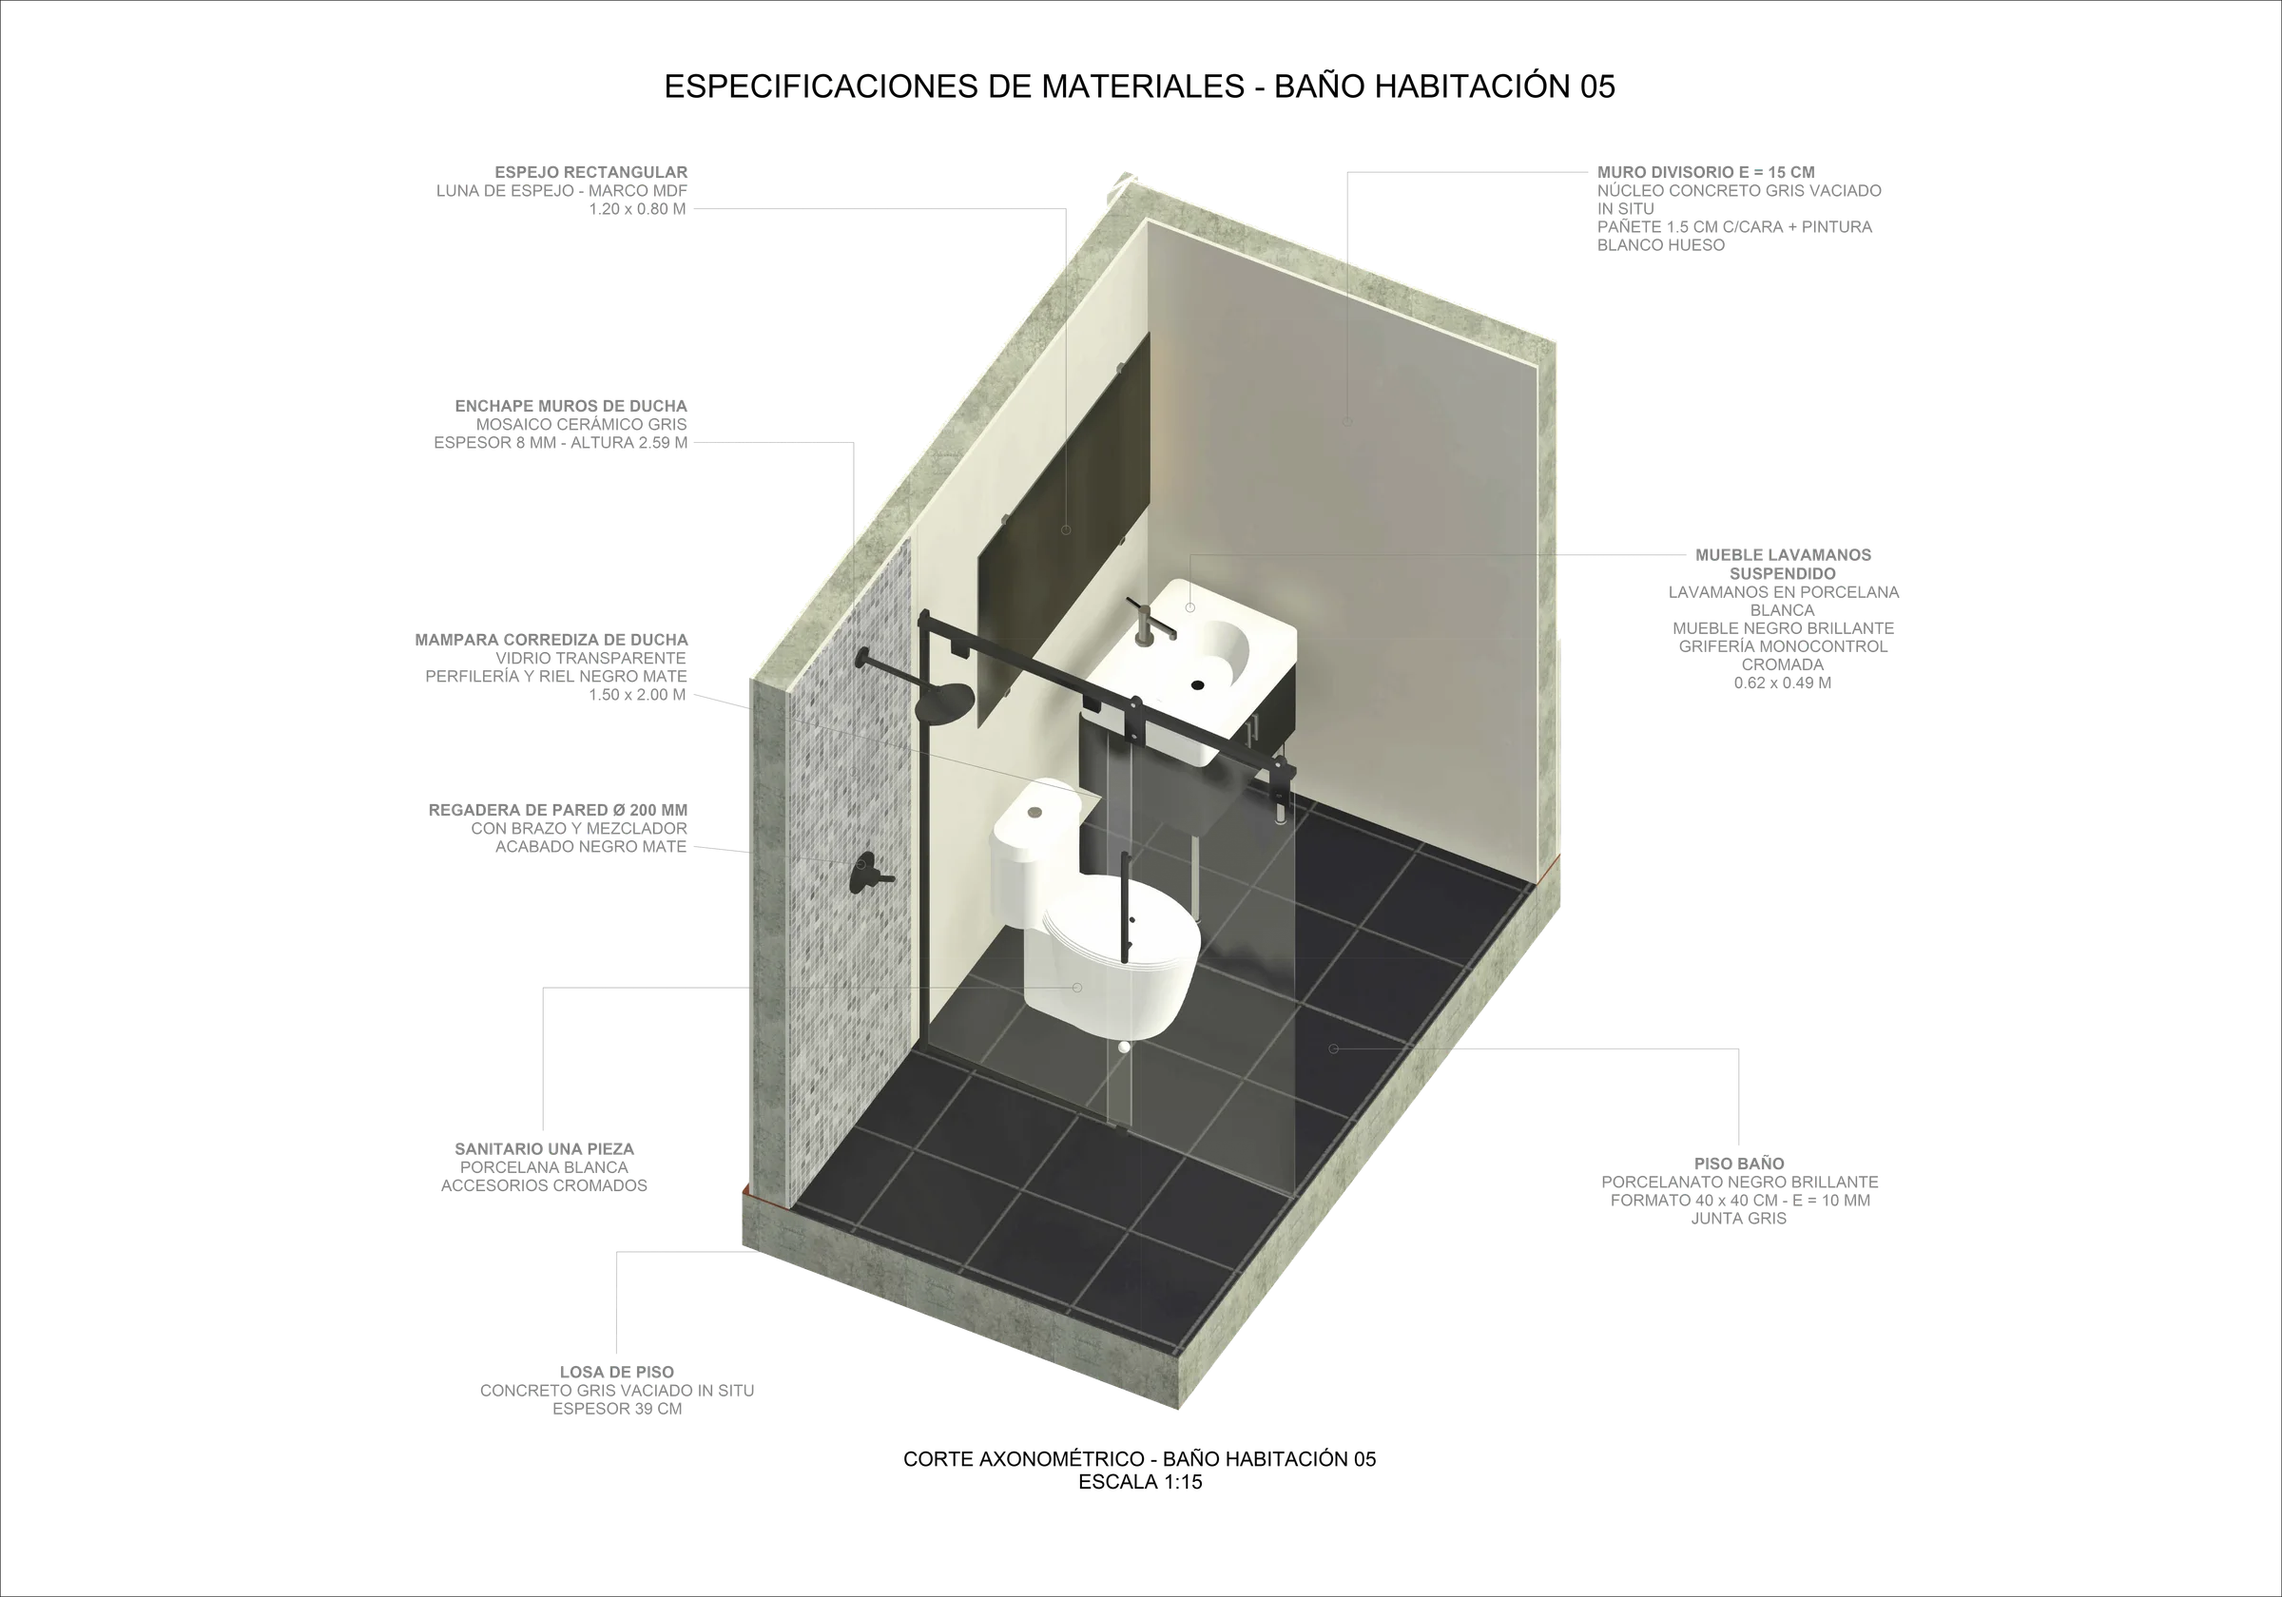
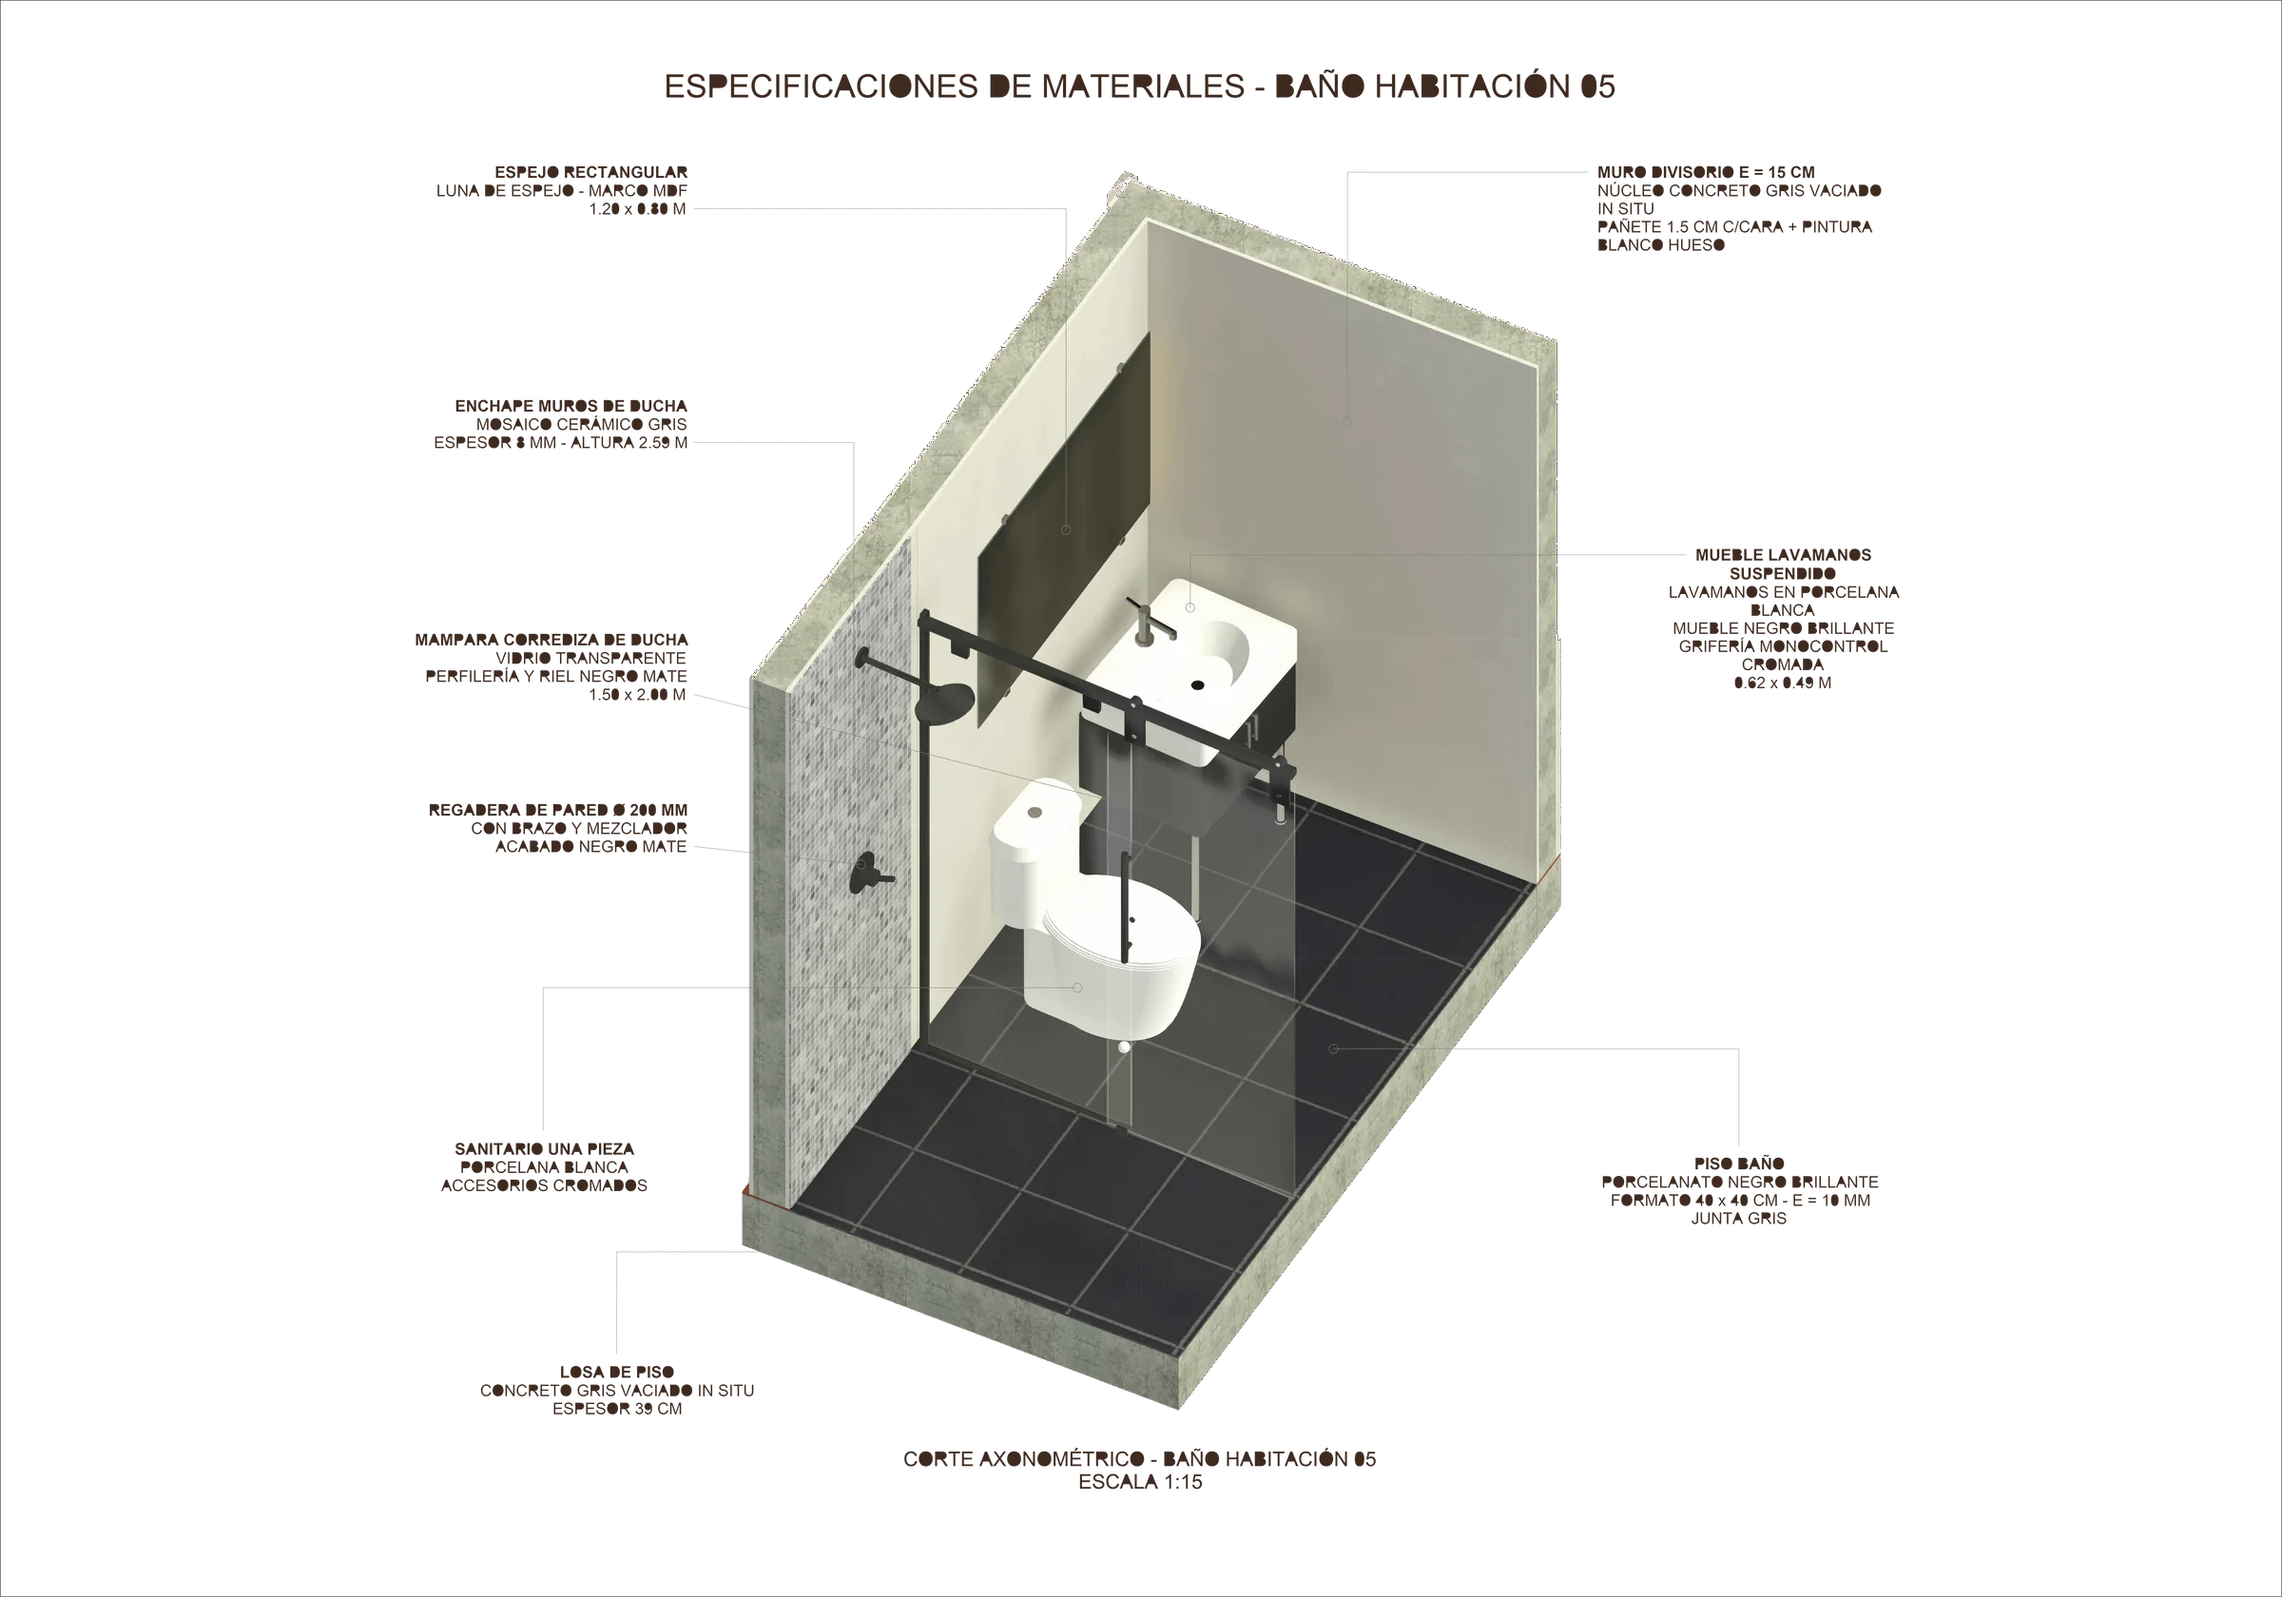
Lámina del baño sobre fondo claro con textos en café

diff --git a/index.html b/index.html
@@ -321,7 +321,7 @@
     </div>
     <div class="spec-viewer rv" style="--d:.15s" id="spec-viewer">
       <div class="spec-stage" id="spec-stage">
-        <img id="spec-img" src="assets/spec-hab05.webp" alt="Corte axonométrico Habitación 05" width="2400" height="1680">
+        <img id="spec-img" src="assets/spec-hab05.webp?v=2" alt="Corte axonométrico Habitación 05" width="2400" height="1680">
         <div class="spec-hotspots" id="spec-hotspots"></div>
       </div>
       <aside class="spec-panel">
@@ -538,7 +538,7 @@
 
 <script src="https://cdnjs.cloudflare.com/ajax/libs/leaflet/1.9.4/leaflet.min.js"></script>
 <script src="script.js?v=9"></script>
-<script src="interactive.js?v=9"></script>
+<script src="interactive.js?v=13"></script>
 <script src="confort.js?v=9"></script>
 <script src="clima.js?v=12"></script>
 <script src="bioclima.js?v=12"></script>

diff --git a/interactive.js b/interactive.js
@@ -173,7 +173,7 @@
       ]
     },
     ban: {
-      img: 'assets/spec-ban05.webp', alt: 'Corte axonométrico Baño Habitación 05', tone: 'dark',
+      img: 'assets/spec-ban05.webp?v=2', alt: 'Corte axonométrico Baño Habitación 05', tone: 'light',
       items: [
         { x: 46.5, y: 33, t: 'Espejo rectangular', d: 'Luna de espejo, marco en MDF. 1.20 x 0.80 m.' },
         { x: 59, y: 26, t: 'Muro divisorio e = 15 cm', d: 'Núcleo en concreto gris vaciado in situ, pañete 1.5 cm por cara + pintura blanco hueso.' },
